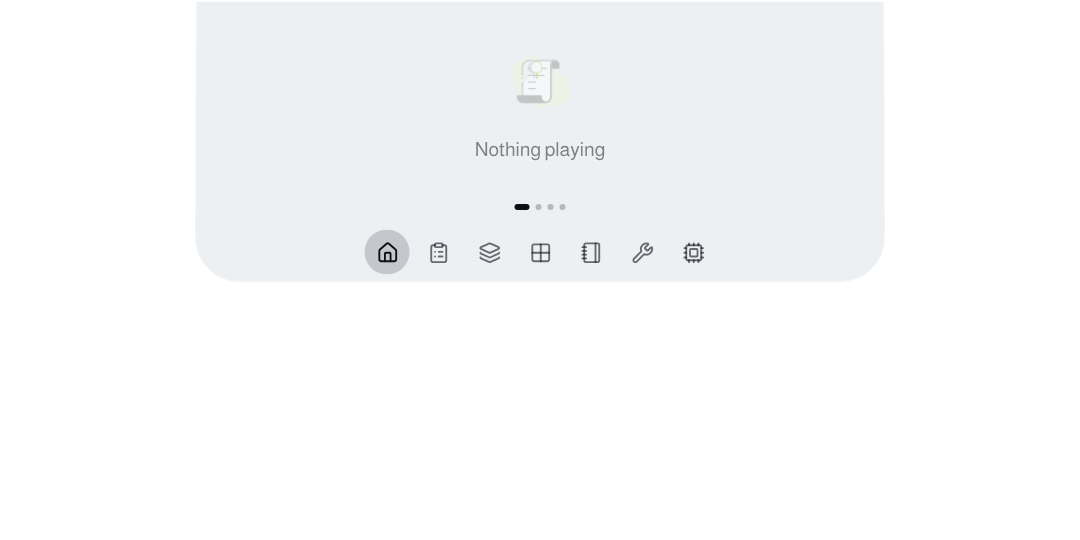
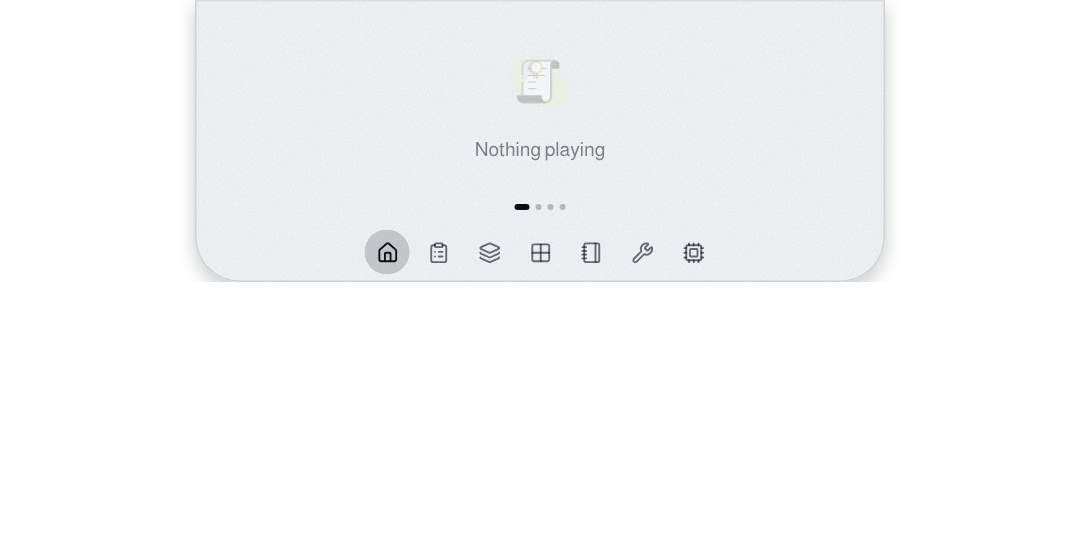
fix(island): smooth pill edge — widen window region, draw the edge in CSS
SetWindowRgn is a 1-bit clip that stair-steps the antialiased CSS edge.
region_rect now pads the region by EDGE_PAD_CSS (10px, concentric corners)
so the clip falls in fully transparent pixels; attached mode keeps the top
corners clipped above the window. Before/after edge shots at 100%/150%.

Claude-Session: https://claude.ai/code/session_0195km4Kfn5qPK5MBj4bbTBB

Changed region(s): [[0.7639, 0.4741, 0.825, 0.5333], [0.1833, 0.4741, 0.2139, 0.5333], [0.7944, 0.0, 0.825, 0.0296]]

diff --git a/src-tauri/src/backdrop.rs b/src-tauri/src/backdrop.rs
@@ -18,6 +18,20 @@ pub fn region_radius_px(radius_css: f64, scale: f64, w: u32, h: u32) -> i32 {
 /// أعلى المنطقة (y) داخل النافذة: عائمة ⇒ 0 (زوايا علوية دائرية مرئية)؛ ملتصقة ⇒ -rad: ينزاح مستطيل الزوايا فوق حافة النافذة فتُقصّ
 /// الزاويتان العلويتان خارجها ويبقى الأعلى مربّعًا ملاصقًا للشاشة والأسفل دائريًا (هندسة نوتش) — بلا صور.
 pub fn region_top(attached: bool, rad_px: i32) -> i32 { if attached { -rad_px.max(0) } else { 0 } }
+
+/// هامش المنطقة حول الجزيرة (CSS px). المنطقة أحادية البت (قصّ ثنائي بلا تنعيم) فكانت تقصّ حافة CSS المنعَّمة إلى سلّم بكسلات؛ الآن
+/// تتسع المنطقة بهذا الهامش من اليمين/اليسار/الأسفل (ومن الأعلى حين ملتصقة) فلا تلمس حافة الجزيرة المرسومة (AA في الصفحة) ويتسع
+/// ظلها الناعم. الثمن: حلقة بعرض الهامش حول الجزيرة تلتقط الماوس (شفافة الرسم) — 10px.
+pub const EDGE_PAD_CSS: f64 = 10.0;
+
+/// مستطيل المنطقة (l, t, r, b, قطر الإهليلج) بالبكسل الفيزيائي داخل النافذة: مستطيل الجزيرة (x0, عرض pw, ارتفاع ph، نصف قطر rad) موسَّعًا بـpad،
+/// وزواياه بنصف القطر rad+pad (منحنى إزاحة متوازٍ لزاوية الجزيرة فيحيط بها بالتساوي). عائمة: الأعلى عند 0 (حافة النافذة)؛ ملتصقة: يُزاح
+/// فوق الحافة بمقدار rad+pad فتُقصّ الزاويتان العلويتان خارج النافذة ويبقى أعلى الجزيرة مربّعًا ملاصقًا للشاشة (هندسة نوتش).
+pub fn region_rect(attached: bool, x0: i32, pw: i32, ph: i32, rad: i32, pad: i32) -> (i32, i32, i32, i32, i32) {
+    let (pad, rad) = (pad.max(0), rad.max(0));
+    let top = if attached { -(rad + pad) } else { 0 };
+    (x0 - pad, top, x0 + pw + pad + 1, ph + pad + 1, (rad + pad) * 2)
+}
 // PURE-END
 
 /// شكل الجزيرة الهدف (CSS px): العرض، الارتفاع، نصف القطر. تحدّثه report_island_rect.
@@ -86,7 +100,8 @@ mod imp {
             let (pw, ph) = ((cw * scale).round() as i32, ((ch + below) * scale).round() as i32);
             let x0 = match align { -1 => 0, 1 => (ww - pw).max(0), _ => ((ww - pw) / 2).max(0) };
             let rad = region_radius_px(cr, scale, pw as u32, (ch * scale) as u32);
-            let rgn: HRGN = CreateRoundRectRgn(x0, region_top(attached, rad), x0 + pw + 1, ph + 1, rad * 2, rad * 2);
+            let (l, t, rr, b, e) = region_rect(attached, x0, pw, ph, rad, (EDGE_PAD_CSS * scale).round() as i32);
+            let rgn: HRGN = CreateRoundRectRgn(l, t, rr, b, e, e);
             if rgn.is_invalid() || SetWindowRgn(h, Some(rgn), true) == 0 { return None; }
             Some((pw, ph, rad))
         }
@@ -113,6 +128,21 @@ mod tests {
         assert_eq!(region_top(true, 17), -17, "ملتصقة: الزوايا العلوية فوق الحافة فتُقصّ");
         assert_eq!(region_top(true, 0), 0);
         assert_eq!(region_top(true, -5), 0, "قيمة سالبة لا تُنتج إزاحة معكوسة");
+    }
+
+    #[test]
+    fn region_is_padded_and_concentric() {
+        // عائمة 100%: جزيرة 220×34 عند x0=290، rad=17، pad=10
+        assert_eq!(region_rect(false, 290, 220, 34, 17, 10), (280, 0, 521, 45, 54));
+        // ملتصقة: الأعلى فوق الحافة بـrad+pad
+        assert_eq!(region_rect(true, 290, 220, 34, 17, 10), (280, -27, 521, 45, 54));
+        // pad=0 ⇒ السلوك السابق حرفيًا
+        assert_eq!(region_rect(false, 290, 220, 34, 17, 0), (290, 0, 511, 35, 34));
+        assert_eq!(region_rect(true, 290, 220, 34, 17, 0).1, region_top(true, 17));
+        // قوس زاوية المنطقة (مركزه ينزاح بـpad أفقيًا فقط للسفلية) يحوي قوس الجزيرة: مركز السفلي-الأيسر للمنطقة = (l+rad+pad, b-1-(rad+pad)) = (x0+rad, ph-rad)
+        let (l, _, _, b, e) = region_rect(false, 290, 220, 34, 17, 10);
+        assert_eq!((l + e / 2, b - 1 - e / 2), (290 + 17, 34 - 17));
+        assert_eq!(region_rect(false, 0, 100, 40, -3, -5), (0, 0, 101, 41, 0), "قيم سالبة تُحصر");
     }
 
     #[test]

diff --git a/docs/GLASS.md b/docs/GLASS.md
@@ -50,9 +50,14 @@
 
 `noRedirectionBitmap` (مفتاح `tauri.conf.json` على Tauri 2.12، يضبط `WS_EX_NOREDIRECTIONBITMAP` عند الإنشاء فقط): **قُيِّم ولم يُفعَّل**. فائدته المعلنة تفادي وميض أبيض قبل رسم WebView الشفاف، لكن بدون جهاز ويندوز لا نعرف أثره مع استضافة WebView2 كنافذة فرعية (HWND) مع `SetWindowRgn`، وهو قابل للتخريب (نافذة بلا أي رسم) ولا يمكن تغييره بعد الإنشاء. بند قبول مالك: جرّب `"noRedirectionBitmap": true` على نافذة `main` في `tauri.conf.json` وراقب الوميض عند الإقلاع وسلامة الرسم والمنطقة.
 
-## الحافة
+## حافة الحبة المنعَّمة
 
-(انظر القسم «حافة الحبة المنعَّمة» أدناه.)
+**السبب (INSERT Q المؤكد):** تعرّج أطراف الجزيرة مصدره `SetWindowRgn` أحادية البت — قصّ ثنائي (داخل/خارج) بلا تنعيم يقتطع حافة CSS المنعَّمة إلى سلّم بكسلات. لا يوجد API لمنطقة نافذة بألفا متدرجة.
+
+**الحل المنفَّذ:** الحافة صارت **مرسومة** (CSS `border-radius` + AA في WebView على نافذة شفافة لكل بكسل)، والمنطقة لم تعد تلمسها: `backdrop.rs::region_rect` يوسّع مستطيل الجزيرة بهامش `EDGE_PAD_CSS = 10px` (يمين/يسار/أسفل، وأعلى في الملتصقة) وزواياه بنصف قطر `rad + pad` (منحنى إزاحة متوازٍ يحيط بزاوية الجزيرة بالتساوي)، فالقصّ الثنائي يقع في منطقة شفافة تمامًا والحافة المنعَّمة والظل الناعم يمرّان كاملين.
+- **عائمة:** الأعلى عند حافة النافذة كما كان. **ملتصقة (attached):** الأعلى `-(rad+pad)` ⇒ الزاويتان العلويتان تُقصّان خارج النافذة ويبقى الأعلى مسطّحًا ملاصقًا للشاشة والسفليتان دائريتان منعَّمتان (دلالة هندسة الالتصاق محفوظة؛ `region_top` الأصلي باقٍ للتوافق ويُختبر).
+- **الثمن (صريح):** حلقة بعرض 10px (CSS) حول الجزيرة تلتقط نقرات الماوس رغم أنها شفافة الرسم، بدل أن تمرّر النقرة للنافذة تحتها. والظل مقيّد بهذا الهامش (blur 12px، إزاحة 5px). لا يمكن تجنّب ذلك دون التخلي عن المنطقة، والبديل (`WM_NCHITTEST`/`HTTRANSPARENT`) لا يعمل لأن الإدخال يصل إلى نافذة WebView2 الفرعية لا لنافذتنا العليا.
+- **التحقق (محاكاة لا ويندوز):** `scripts/edge.shots.cjs` ⇒ `docs/screenshots/edge-before-after-{100,150}-{dark,light}.png` (يسار = قصّ المنطقة عند حافة الجزيرة بالضبط، يمين = المنطقة الموسَّعة) و`docs/q/edge-after.json`: بكسلات الحافة الجزئية الألفا التي كانت تُصلَّب بالقصّ: 762 عند 100% و1715 عند 150% (داكن؛ الفاتح نفسها)، وبعد الإصلاح تبقى منعَّمة (≥1000 / ≥2300 بكسل مع الظل). **ليست نافذة ويندوز حقيقية** — بند قبول مالك: لقطة مكبّرة 800٪ لحافة الحبة على 100/125/150٪ بالوضعين.
 
 ## التباين (`scripts/appearance.test.mjs`)
 
